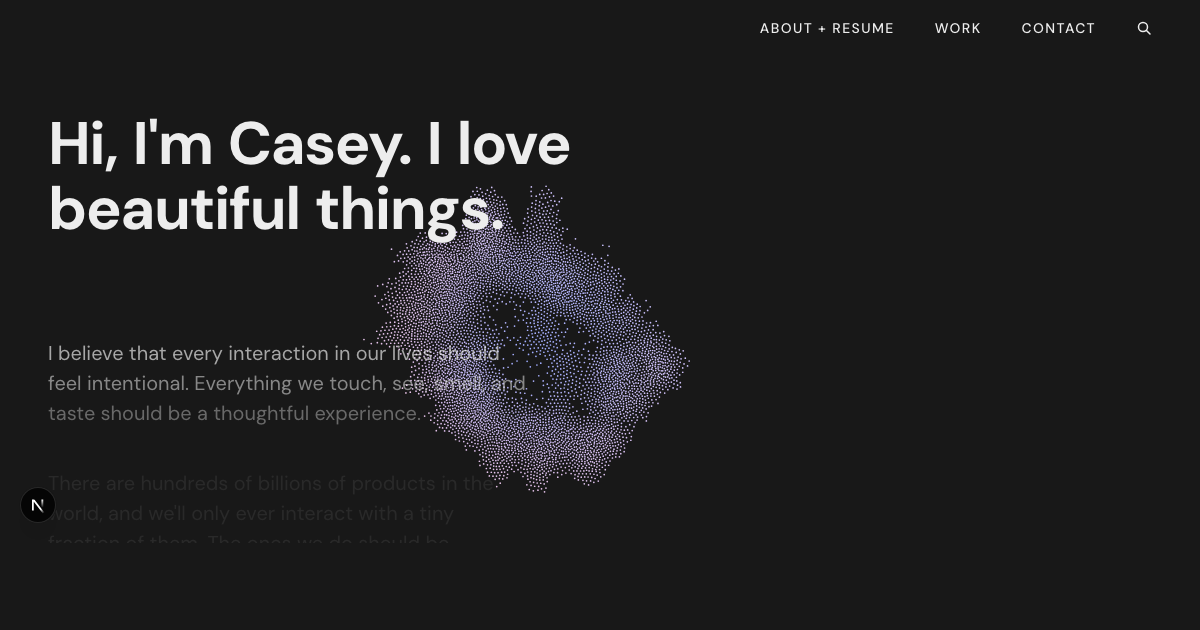
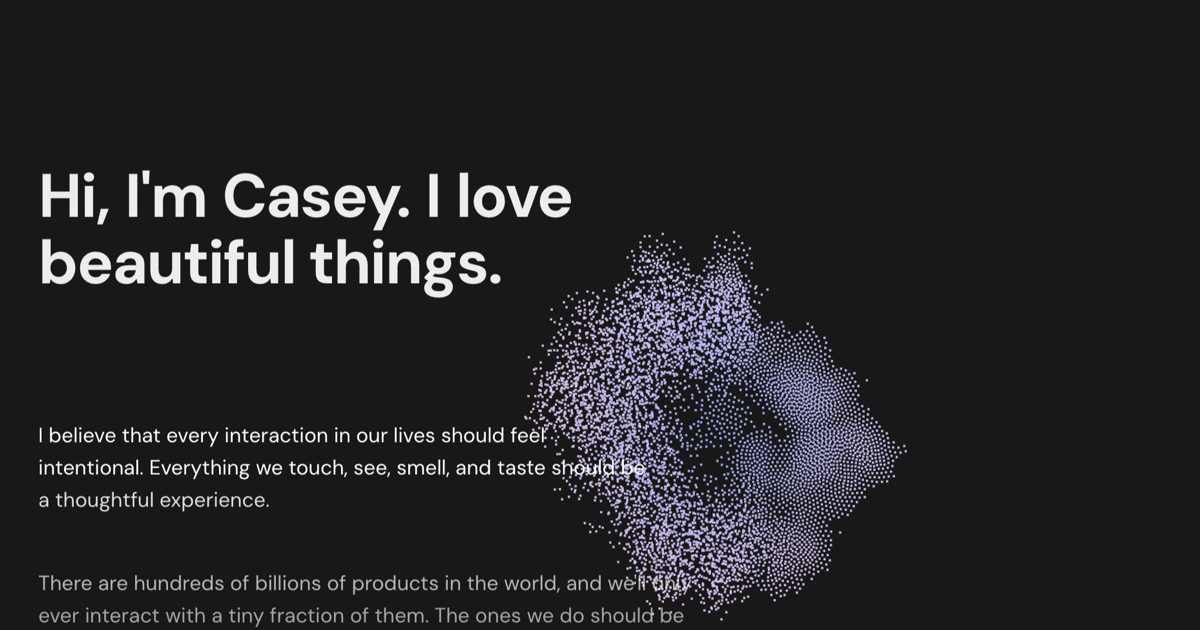
Update OG preview image, fix Vercel build, and simplify video grid
- Replace OG/Twitter preview with hero section screenshot
- Remove turbopack.root config that caused Vercel build panic
- Simplify video-grid cols-2 to always use two columns

diff --git a/src/app/globals.css b/src/app/globals.css
@@ -232,17 +232,11 @@ body {
 }
 
 .video-grid.cols-2 {
-  grid-template-columns: 1fr;
+  grid-template-columns: 1fr 1fr;
 }
 
 .video-grid.cols-3 {
   grid-template-columns: 1fr 1fr 1fr;
-}
-
-@media (min-width: 480px) {
-  .video-grid.cols-2 {
-    grid-template-columns: 1fr 1fr;
-  }
 }
 
 .video-cell {

diff --git a/next.config.ts b/next.config.ts
@@ -1,11 +1,7 @@
 import type { NextConfig } from 'next';
-import { resolve } from 'path';
 
 const nextConfig: NextConfig = {
   reactStrictMode: true,
-  turbopack: {
-    root: resolve(__dirname),
-  },
 };
 
 export default nextConfig;
